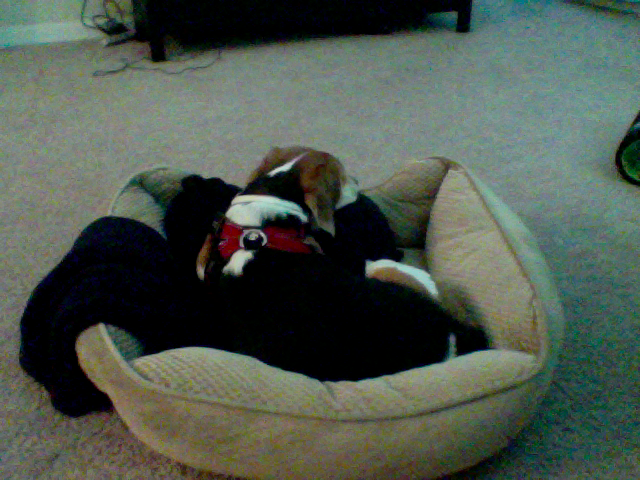
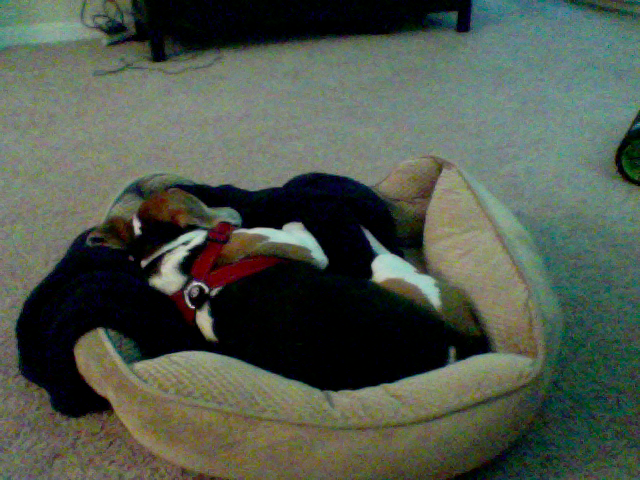
update at Month05Day13Time08:16

diff --git a/index.html b/index.html
@@ -39,8 +39,8 @@
       <!-- Example row of columns -->
       <div class="row">
         <div class="col-md-4">
-	<p>This picture was updated at Month05Day13Time08:15</p>
-		<img src="1_pic.png" />
+	<p>This picture was updated at Month05Day13Time08:16</p>
+		<img src="9_pic.png" />
         </div>
       </div>
 
